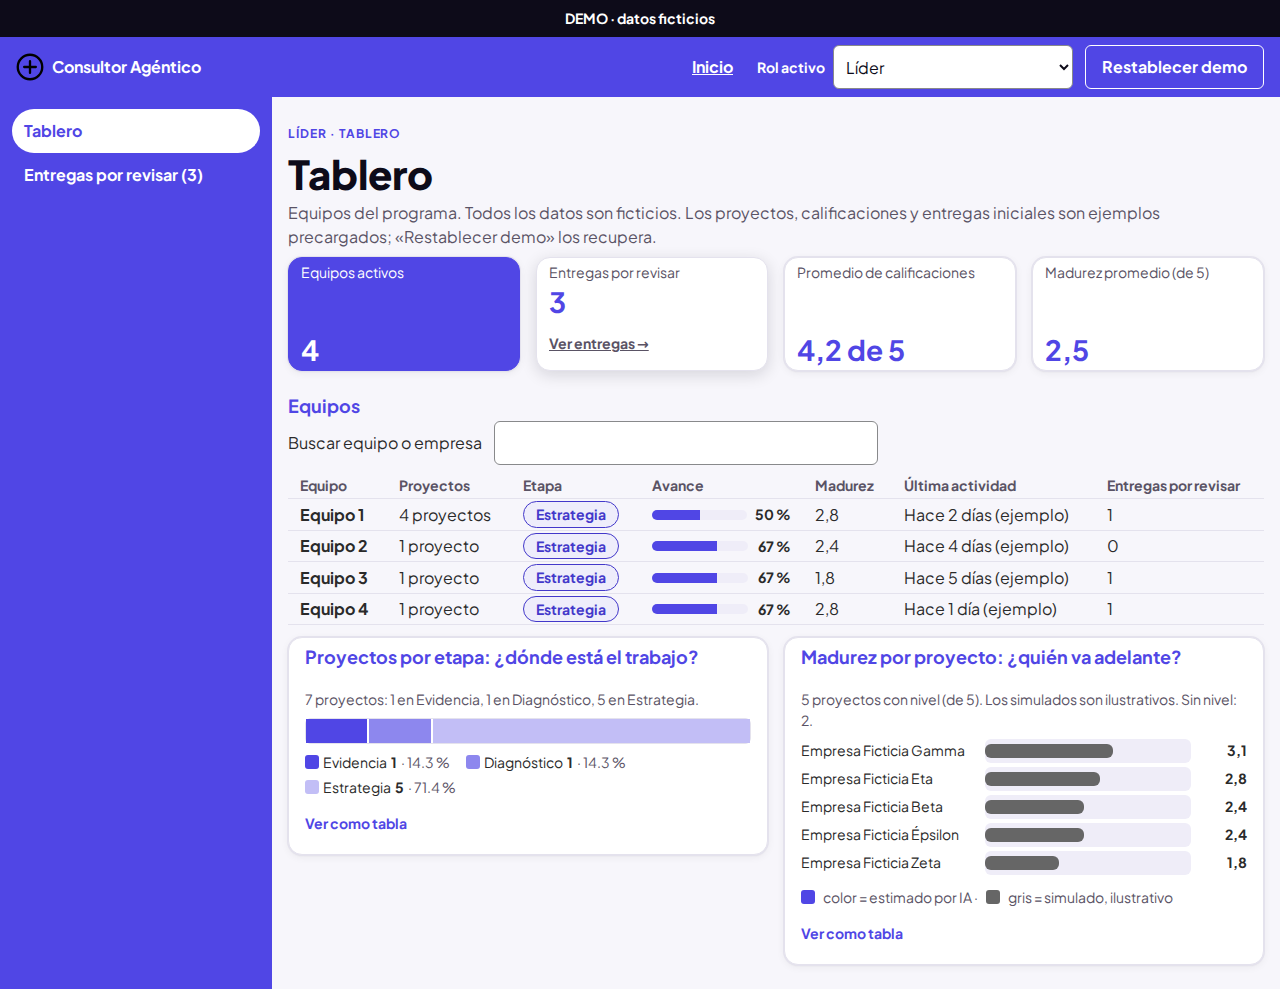
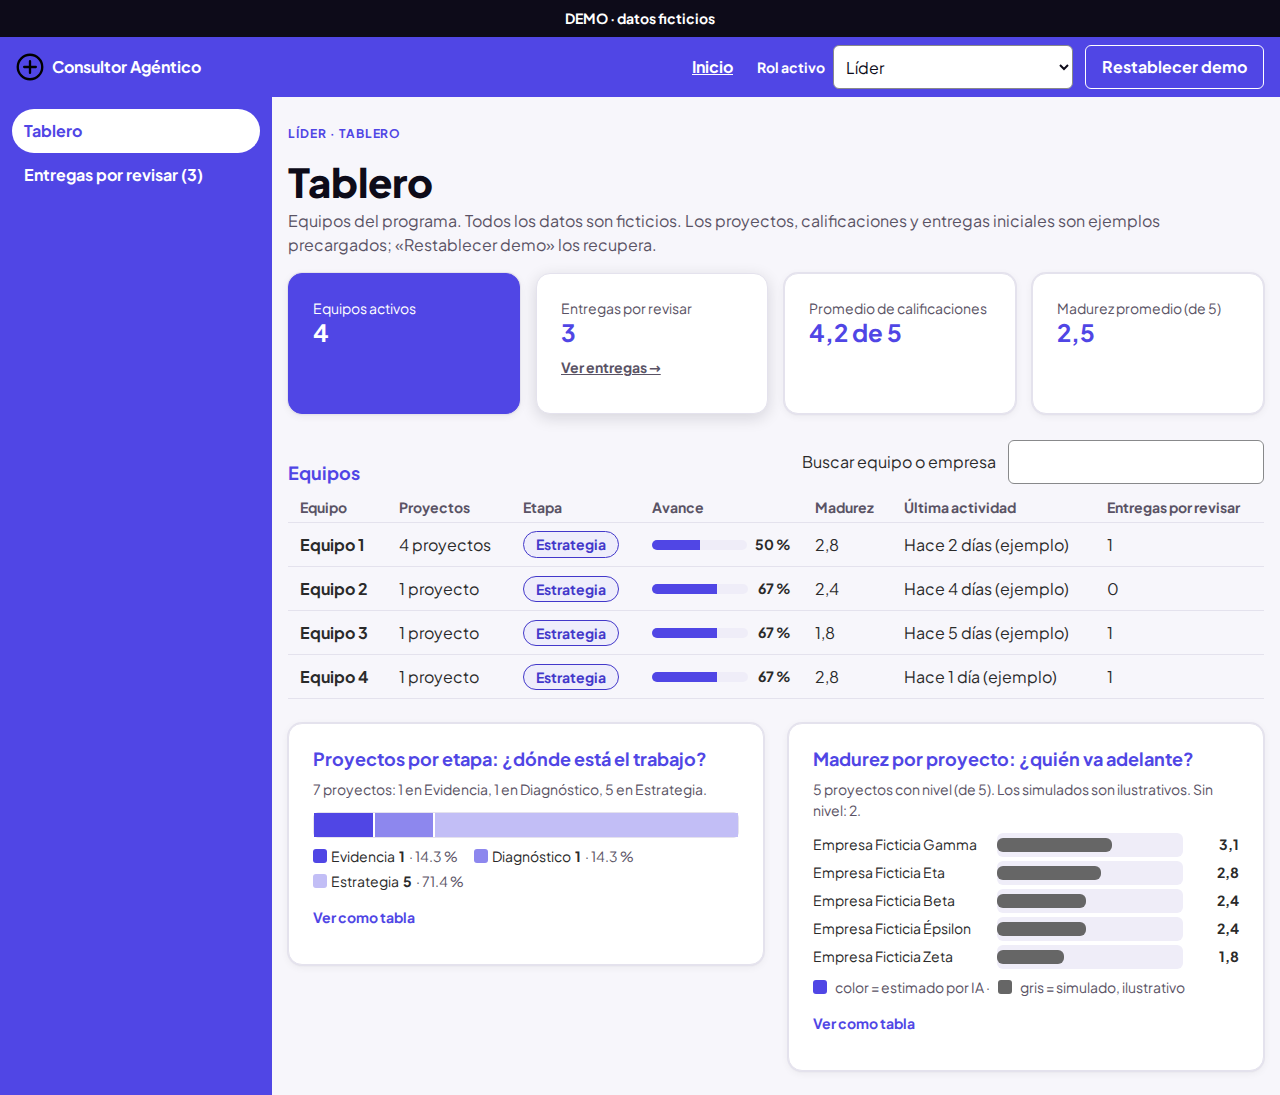
fix(002): espaciado y alineación del Tablero del Líder (H5d)

diff --git a/tests/e2e/ia-real-h4-h5c.spec.ts b/tests/e2e/ia-real-h4-h5c.spec.ts
@@ -144,12 +144,68 @@ test('Tablero: axe AA, sin desplazamiento horizontal y objetivos de 44 px a 320,
   // peor caso (con un proyecto real emitido aparece además «Madurez por pilar (promedio)»): se registra, no se acota
 });
 
-test('Tablero: altura a 1280 con los datos de ejemplo ≤ 1000 px', async ({ page }) => {
+// H5d: el criterio pasa de 1000 a 1100 px porque el Tablero ganó aire (ritmo de 16 y 24 px, filas de 44 px, relleno de 24 px y cifras con su enlace en fila propia)
+test('Tablero: altura a 1280 con los datos de ejemplo ≤ 1100 px', async ({ page }) => {
   await entrarConsultor(page);
   await comoLider(page);
   await page.setViewportSize({ width: 1280, height: 600 });
   await page.waitForTimeout(200);
   const alto = await page.evaluate(() => document.documentElement.scrollHeight);
   writeFileSync('docs/evidencia/h5c-medidas-ejemplo.json', JSON.stringify({ alto1280: alto }, null, 2));
-  expect(alto, `altura del Tablero a 1280: ${alto}`).toBeLessThanOrEqual(1000);
+  expect(alto, `altura del Tablero a 1280: ${alto}`).toBeLessThanOrEqual(1100);
+});
+
+/** Espacios del Tablero (H5d): mínimos de ritmo (16 y 24 px), filas de 40 px, relleno de 20 px y cifras alineadas. */
+async function medirEspacios(page: Page) {
+  return page.evaluate(() => {
+    const r = (e: Element) => e.getBoundingClientRect();
+    const main = document.querySelector('main')!;
+    const intro = main.querySelector('h1 + p')!;
+    const kpis = [...document.querySelectorAll('[data-testid^="kpi-"]')].filter((e) => e.classList.contains('kpi'));
+    const grid = document.querySelector('section[aria-label="Indicadores"]')!;
+    const h2 = document.getElementById('tab-equipos')!;
+    const tabla = document.querySelector('[data-testid="teams-table"]')!;
+    const etapas = document.querySelector('[data-testid="chart-stages"]')!;
+    const madurez = document.querySelector('[data-testid="chart-maturity-projects"]')!;
+    const filas = [...document.querySelectorAll('[data-testid="teams-table"] tbody tr')].map((e) => r(e).height);
+    const pad = (e: Element) => { const s = getComputedStyle(e); return Math.min(...[s.paddingTop, s.paddingRight, s.paddingBottom, s.paddingLeft].map(parseFloat)); };
+    const valores = kpis.map((k) => r(k.querySelector('.kpi-value')!).top);
+    const enlace = document.querySelector('[data-testid="kpi-ver-entregas"]')!;
+    const valorEntregas = document.querySelector('[data-testid="kpi-por-revisar"] .kpi-value')!;
+    const lado = Math.abs(r(etapas).top - r(madurez).top) < 4;
+    return {
+      descripcionACifras: Math.round(r(grid).top - r(intro).bottom),
+      cifrasATitulo: Math.round(r(h2).top - r(grid).bottom),
+      filaMin: Math.round(Math.min(...filas)),
+      tablaAGraficos: Math.round(r(etapas).top - r(tabla).bottom),
+      entreGraficos: Math.round(lado ? r(madurez).left - r(etapas).right : r(madurez).top - r(etapas).bottom),
+      rellenoCifras: pad(kpis[0]!),
+      rellenoGrafico: pad(etapas),
+      dispersionNumeros: Math.round(Math.max(...valores) - Math.min(...valores)),
+      enlaceDebajo: Math.round(r(enlace).top - r(valorEntregas).bottom),
+      alto: document.documentElement.scrollHeight,
+    };
+  });
+}
+
+test('Tablero (H5d): espacios mínimos de ritmo, filas de 40 px, relleno de 20 px y cifras alineadas, a 1280 y a 768', async ({ page }) => {
+  await entrarConsultor(page);
+  await comoLider(page);
+  const medidas: Record<string, unknown> = {};
+  for (const w of [1280, 768]) {
+    await page.setViewportSize({ width: w, height: w === 1280 ? 600 : 800 });
+    await page.waitForTimeout(200);
+    const m = await medirEspacios(page);
+    medidas[w] = m;
+    expect.soft(m.descripcionACifras, `descripción → cifras a ${w}`).toBeGreaterThanOrEqual(16);
+    expect.soft(m.cifrasATitulo, `cifras → «Equipos» a ${w}`).toBeGreaterThanOrEqual(24);
+    if (w >= 1024) expect.soft(m.filaMin, `alto mínimo de fila a ${w}`).toBeGreaterThanOrEqual(40);
+    expect.soft(m.tablaAGraficos, `tabla → gráficos a ${w}`).toBeGreaterThanOrEqual(24);
+    expect.soft(m.entreGraficos, `entre los dos gráficos a ${w}`).toBeGreaterThanOrEqual(24);
+    expect.soft(m.rellenoCifras, `relleno de las cifras a ${w}`).toBeGreaterThanOrEqual(20);
+    expect.soft(m.rellenoGrafico, `relleno de los gráficos a ${w}`).toBeGreaterThanOrEqual(20);
+    expect.soft(m.dispersionNumeros, `los 4 números a la misma altura a ${w}`).toBeLessThanOrEqual(1);
+    expect.soft(m.enlaceDebajo, `«Ver entregas →» en una fila propia, debajo del número, a ${w}`).toBeGreaterThanOrEqual(0);
+  }
+  writeFileSync(process.env.H5D_ANTES ? 'docs/evidencia/h5d-medidas-antes.json' : 'docs/evidencia/h5d-medidas.json', JSON.stringify(medidas, null, 2));
 });

diff --git a/src/styles/h5.css b/src/styles/h5.css
@@ -72,3 +72,41 @@ section[aria-labelledby='encuesta-form'] .field-error { padding: var(--space-3);
 .tablero .kpi-grid > .kpi { padding-block: var(--space-1); }
 .tablero .rtable th, .tablero .rtable td { padding-block: 2px; }
 .tablero > p { margin-block: var(--space-1) var(--space-2); }
+
+/* ── H5d: Tablero con aire (ritmo de 16 y 24 px, filas de 44 px, relleno de 24 px y cifras alineadas) ── */
+.tablero > p { margin-block: var(--space-1) var(--rhythm-block); }
+.tablero .kpi-grid { gap: var(--rhythm-block); margin-bottom: var(--rhythm-section); grid-auto-rows: auto; }
+.tablero .kpi-grid > .kpi { display: grid; grid-row: span 3; grid-template-rows: subgrid; row-gap: var(--space-1); align-content: start; justify-content: stretch; height: auto; padding: var(--rhythm-section); }
+.tablero .kpi-grid > .kpi > p { margin: 0; }
+.tablero .kpi-grid > .kpi > .kpi-value { align-self: end; }
+.tablero .tablero-equipos > h2 { margin-bottom: var(--rhythm-block); }
+.tablero .field { margin-bottom: var(--rhythm-block); }
+.tablero .rtable th, .tablero .rtable td { padding-block: var(--space-2); }
+@media (min-width: 1024px) { .tablero .rtable tbody tr { height: var(--target-min); } }
+.tablero .dash-charts { margin-top: var(--rhythm-section); gap: var(--rhythm-section); }
+.tablero .chart { padding: var(--rhythm-section); }
+.tablero .kpi-link { display: inline; min-height: 0; text-decoration: underline; }
+.tablero .kpi-grid > .kpi > .subtitle { line-height: var(--line-height-tight, 1.3); }
+.tablero .tablero-equipos > h2 { margin-bottom: var(--space-2); }
+.tablero .field { margin-bottom: var(--space-2); }
+.tablero .rtable th, .tablero .rtable td { padding-block: var(--space-1); }
+.tablero .chart-summary { margin-block: 0 var(--space-2); }
+.tablero .chart .chart-title { margin-bottom: var(--space-1); }
+.tablero .kpi-grid > .kpi { row-gap: 0; }
+.tablero .kpi-value { font-size: var(--font-size-h2); }
+.tablero .chart .chart-table { margin-top: 0; }
+.tablero .ranked-legend { margin-top: var(--space-1); }
+/* El enlace de la cifra mide 44 px de alto (criterio de objetivos de la 001); fila propia debajo del número */
+.tablero .kpi-link { display: inline-flex; align-items: center; min-height: var(--target-min); }
+.tablero h1 { margin-block: 0 var(--space-1); }
+@media (min-width: 768px) {
+  .tablero .tablero-equipos { display: grid; grid-template-columns: max-content minmax(0, 1fr); column-gap: var(--rhythm-section); align-items: center; }
+  .tablero .tablero-equipos > .field { justify-self: end; margin: 0 0 var(--space-2); }
+  .tablero .tablero-equipos > h2 { margin-bottom: var(--space-2); }
+  .tablero .tablero-equipos > :not(h2):not(.field) { grid-column: 1 / -1; }
+}
+@media (min-width: 768px) {
+  .tablero .tablero-equipos > .field { display: flex; flex-flow: row nowrap; align-items: center; gap: var(--space-3); }
+  .tablero .tablero-equipos > .field label { white-space: nowrap; }
+  .tablero .tablero-equipos > .field input { flex: 1 1 16rem; width: 16rem; max-width: 100%; }
+}

diff --git a/docs/evidencia/mutacion-h5d.md b/docs/evidencia/mutacion-h5d.md
@@ -1,0 +1,18 @@
+# Mutación H5d: volver a poner los valores viejos del Tablero debe hacer fallar la prueba de espacios (luego se restaura)
+```
+    Error: descripción → cifras a 1280
+    Expected: >= 16
+    Received:    8
+    Error: alto mínimo de fila a 1280
+    Expected: >= 40
+    Received:    31
+    Error: tabla → gráficos a 1280
+    Expected: >= 24
+    Received:    12
+    Error: entre los dos gráficos a 1280
+    Expected: >= 24
+    Received:    16
+    Error: relleno de las cifras a 1280
+    Expected: >= 20
+```
+Restaurado (diff sin diferencias).
